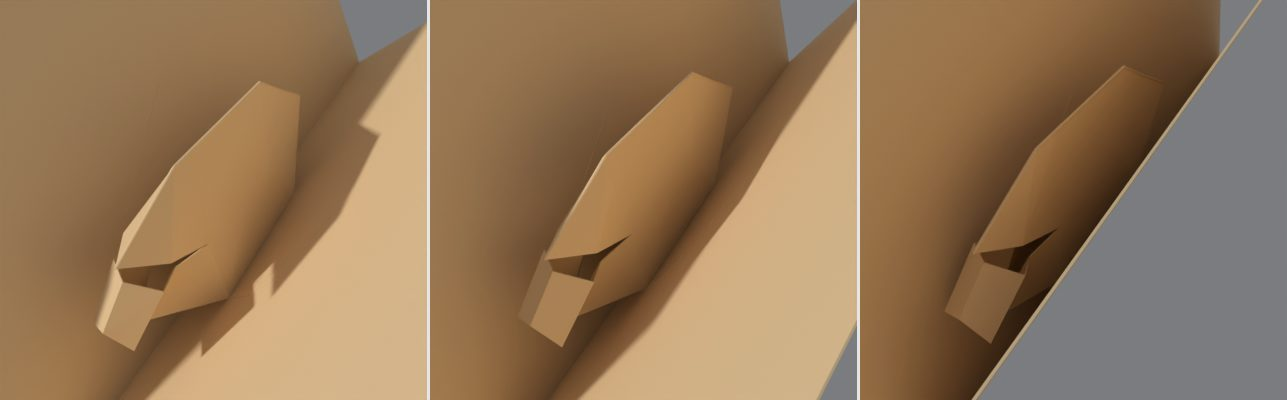
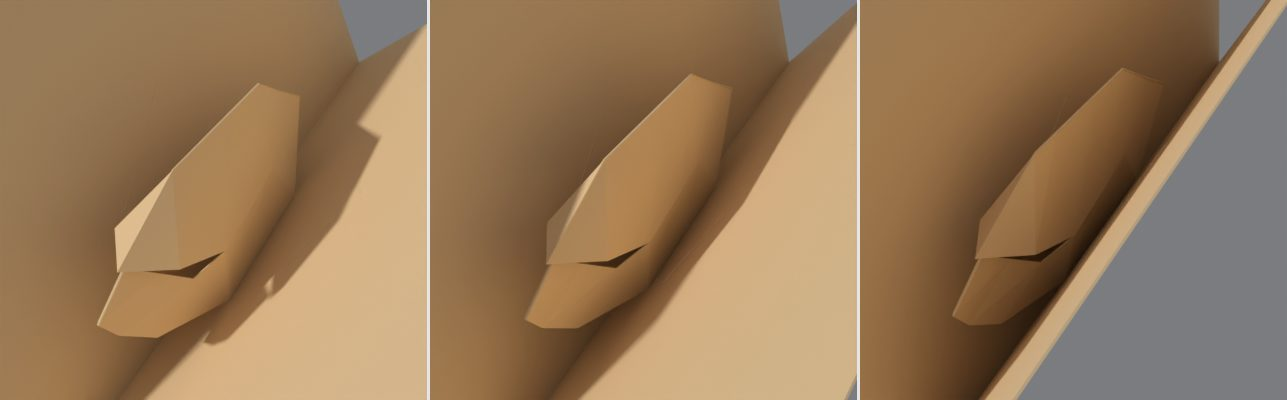
0.93.1: the animal face's creases sit the way card's do
A light spring on every crease: open flat the free shapes go a little
mountain (rest 10 deg, hinges pinned first); shut-wards each crease is held
to its open fold, let go over the last 45 deg. Replaces the jaw-only
springs. Test: no crease beyond -10 deg valley through the fold.

Claude-Session: https://claude.ai/code/session_01C9mQ3UdpPG4HfxWumnBXkE

diff --git a/popup_pro/core/koala.py b/popup_pro/core/koala.py
@@ -221,6 +221,70 @@ def edges(p, faces):
     return out
 
 
+REST = 10.0  # (degrees: a crease left to itself sits this far mountain)
+
+
+def creases(p, faces):
+    """Every crease between two facets as drawn: (a, b, c, e, side), a-b
+    the crease, c a corner of the one facet off it, e of the other, side
+    which way round the first facet goes in the pattern (+1: c left of a-b)."""
+    out = []
+    for i, fa in enumerate(faces):
+        for fb in faces[i + 1:]:
+            sh = [q for q in fa if q in fb]
+            if len(sh) != 2:
+                continue
+            a, b = sh
+            ab = p[b] - p[a]
+            la = float(np.linalg.norm(ab))
+
+            def far(f):
+                return max((q for q in f if q not in sh),
+                           key=lambda q: abs(_cross(ab, p[q] - p[a])) / la)
+
+            c, e = far(fa), far(fb)
+            out.append((a, b, c, e, 1.0 if _cross(ab, p[c] - p[a]) > 0 else -1.0))
+    return out
+
+
+def _folds(A, B, C, E_, sd, out):
+    u = B - A
+    u = u / np.maximum(np.linalg.norm(u, axis=1), 1e-12)[:, None]
+    cp = C - A
+    cp = cp - np.sum(cp * u, axis=1)[:, None] * u
+    ep = E_ - A
+    ep = ep - np.sum(ep * u, axis=1)[:, None] * u
+    lc = np.maximum(np.linalg.norm(cp, axis=1), 1e-12)
+    le = np.maximum(np.linalg.norm(ep, axis=1), 1e-12)
+    nA = (sd * out)[:, None] * np.cross(u, cp) / lc[:, None]
+    return np.arctan2(-np.sum(nA * ep, axis=1) / le, -np.sum(cp * ep, axis=1) / (lc * le))
+
+
+def fold_angles(P, idx, out=1.0):
+    """Each crease's fold (radians, + mountain: the facets falling away from
+    the card's outer face, - valley). P: corners (n x 3); idx: arrays
+    (a, b, c, e, side); out: +1 if the pattern's face up is the outer face."""
+    ia, ib, ic, ie, sd = idx
+    return _folds(P[ia], P[ib], P[ic], P[ie], sd, out)
+
+
+def fold_jac(P, idx, out=1.0, h=1e-4):
+    """The folds' rates against each of their four corners' coordinates
+    (m x 4 x 3), by central differences, each crease on its own."""
+    ia, ib, ic, ie, sd = idx
+    Q = [P[ia], P[ib], P[ic], P[ie]]
+    m = len(ia)
+    J = np.zeros((m, 4, 3))
+    for r_ in range(4):
+        for k in range(3):
+            Qp = [q.copy() for q in Q]
+            Qm = [q.copy() for q in Q]
+            Qp[r_][:, k] += h
+            Qm[r_][:, k] -= h
+            J[:, r_, k] = (_folds(*Qp, sd, out) - _folds(*Qm, sd, out)) / (2 * h)
+    return J
+
+
 def stand(p, topo, clear=0.5):
     """The face stood up open flat: x across (the left page at x < 0), y along
     the fold, z up off the card. Every facet kept its shape, the middle's
@@ -285,10 +349,51 @@ def stand(p, topo, clear=0.5):
         J.append(lam * np.eye(3 * n))
         return np.concatenate(rows), np.vstack(J)
 
+    # (each crease left free by the rest sits a little mountain, as card
+    # does: chooses among the shapes the facets alone allow)
+    cr = creases(p, topo["faces"])
+    cidx = tuple(np.array([vi[c[k]] for c in cr]) for k in range(4)) + \
+        (np.array([c[4] for c in cr]),)
+    # (the pattern's face up: outward if most facets face up in the guess)
+    out = 1.0
+    nz = 0.0
+    for f in topo["faces"]:
+        a2 = sum(_cross(p[f[i]], p[f[(i + 1) % len(f)]]) for i in range(len(f)))
+        nn = np.cross(X[vi[f[1]]] - X[vi[f[0]]], X[vi[f[2]]] - X[vi[f[0]]])
+        nz += math.copysign(1.0, a2) * nn[2] / max(np.linalg.norm(nn), 1e-12)
+    out = 1.0 if nz >= 0 else -1.0
+    rest = math.radians(REST)
+    wrest = [0.0]
+    Hpin = [None]
+
+    def resid_r(x, lam):
+        rv, J = resid(x, lam)
+        if wrest[0] <= 0.0:
+            return rv, J
+        P = x.reshape(n, 3)
+        # (the hinges kept where the facets alone put them: the springs only
+        # choose among what's left free)
+        Jh = np.zeros((3 * len(hi), 3 * n))
+        for q_, i_ in enumerate(hi):
+            for k in range(3):
+                Jh[3 * q_ + k, 3 * i_ + k] = 10.0
+        rv = np.concatenate([rv, 10.0 * (P[hi] - Hpin[0]).reshape(-1)])
+        J = np.vstack([J, Jh])
+        ph = fold_angles(P, cidx, out)
+        Jf = fold_jac(P, cidx, out)
+        Jr = np.zeros((len(ph), 3 * n))
+        for r_ in range(4):
+            for k in range(3):
+                np.add.at(Jr, (np.arange(len(ph)), 3 * cidx[r_] + k), wrest[0] * Jf[:, r_, k])
+        return np.concatenate([rv, wrest[0] * (ph - rest)]), np.vstack([J, Jr])
+
     x = X.reshape(-1)
-    for lam in (0.05, 0.01, 0.002, 0.0):
+    for lam, wr in ((0.05, 0.0), (0.01, 0.0), (0.002, 0.0), (0.0, 0.0), (0.0, 0.1), (0.0, 0.01)):
+        if wr > 0.0 and Hpin[0] is None:
+            Hpin[0] = x.reshape(n, 3)[hi].copy()
+        wrest[0] = wr
         for _ in range(60):
-            rv, J = resid(x, lam)
+            rv, J = resid_r(x, lam)
             A = J.T @ J + 1e-6 * np.eye(3 * n)
             step = np.linalg.solve(A, -(J.T @ rv))
             mx = float(np.abs(step).max())
@@ -300,4 +405,4 @@ def stand(p, topo, clear=0.5):
         X0 = x.reshape(n, 3).copy()
     P = x.reshape(n, 3)
     err = float(np.max(np.abs(np.linalg.norm(P[ea] - P[eb], axis=1) - L0)))
-    return {k: P[vi[k]].copy() for k in names}, err
+    return {k: P[vi[k]].copy() for k in names}, err, out

diff --git a/popup_pro/core/heads.py b/popup_pro/core/heads.py
@@ -87,7 +87,7 @@ class Heads:
         yN = float(m["y"])
         p_np, ear_np, topo = KO.pattern(nose, brow, muzzle, chin, mw, md, ma, jaw, cheek, es,
                                         base=base)
-        Xd, err = KO.stand(p_np, topo)
+        Xd, err, out_ = KO.stand(p_np, topo)
         if err > 0.02 * nose:
             self.warn(f"{lab}: the face can't stand up from its pattern at these landmarks "
                       f"without stretching (try others)")
@@ -179,19 +179,17 @@ class Heads:
                         d_ = (W180[c_] - W180[a_]).dot(w_)
                         hh = ((W180[c_] - W180[a_]) - (W180[c_] - W180[a_]).dot(u_) * u_).length
                         convex.append((a_, b_, c_, -1.0 if d_ < 0.0 else 1.0, 0.05 * hh))
-        # (the jaw hangs free below the mouth: held lightly to its open
-        # shape, let go towards shut, so its creases don't deepen on the way)
-        springs = []
-        jawv = {"Q", "J5", "J4", "L1", "R", "S2"}
-        for i_, fa in enumerate(topo["faces"]):
-            for fb in topo["faces"][i_ + 1:]:
-                sh = set(fa) & set(fb)
-                if len(sh) != 2 or not (jawv & set(fa) and jawv & set(fb)):
-                    continue
-                for c_ in set(fa) - sh:
-                    for e_ in set(fb) - sh:
-                        springs.append((c_, e_, (W180[c_] - W180[e_]).length,
-                                        (p2[c_] - p2[e_]).length))
+        # (every crease held lightly to its fold open flat, as creased card
+        # springs back, let go towards shut where the pages press it flat:
+        # the shapes the facets alone leave free go the way card would)
+        import numpy as np
+        crs = KO.creases(p_np, topo["faces"])
+        nmz = list(Xd)
+        vz = {k: i for i, k in enumerate(nmz)}
+        Pz = np.array([Xd[k] for k in nmz])
+        ph180 = KO.fold_angles(Pz, tuple(np.array([vz[c[k]] for c in crs]) for k in range(4)) +
+                               (np.array([c[4] for c in crs]),), out_)
+        springs = (crs, out_, ph180)
         pose_cache = {180.0: W180}
 
         def pose(t):
@@ -449,6 +447,11 @@ class Heads:
         NM = np.array(nm[:])  # (the mirror's normal, towards the left page)
         NN = np.stack([NL, NR, NM])
         sidev = np.array([v in side and v not in fixed for v in names])
+        from . import koala as KO
+        if springs:
+            crs, sout, sph = springs
+            cidx = tuple(np.array([vi[c[k]] for c in crs]) for k in range(4)) + \
+                (np.array([c[4] for c in crs]),)
 
         def resid(xx, lam):
             P = (c0f + G @ xx).reshape(nv, 3)
@@ -485,19 +488,19 @@ class Heads:
                     row[3 * ia:3 * ia + 3] -= 5.0 * sg_ * w_
                     r3.append(5.0 * g_)
                     Jc.append(row)
-            # (light springs holding a free part to its open shape, let go
-            # towards shut, where the pages press it flat)
+            # (light springs holding every crease to its fold open flat, let
+            # go towards shut, where the pages press it flat)
             sk = min(1.0, float(t) / 45.0)
-            for a_, c_, d1, d0 in springs:
-                ia, ic = vi[a_], vi[c_]
-                dv = P[ia] - P[ic]
-                ln_ = max(np.linalg.norm(dv), 1e-9)
-                wt = 0.03 * sk / np.sqrt(max(d0, 1.0))
-                row = np.zeros(3 * nv)
-                row[3 * ia:3 * ia + 3] += wt * dv / ln_
-                row[3 * ic:3 * ic + 3] -= wt * dv / ln_
-                r3.append(wt * (ln_ - d1))
-                Jc.append(row)
+            if springs and sk > 0.0:
+                ph = KO.fold_angles(P, cidx, sout)
+                Jf = KO.fold_jac(P, cidx, sout)
+                wt = 0.1 * sk
+                Jr = np.zeros((len(ph), 3 * nv))
+                for r_ in range(4):
+                    for k in range(3):
+                        np.add.at(Jr, (np.arange(len(ph)), 3 * cidx[r_] + k), wt * Jf[:, r_, k])
+                r3 += list(wt * (ph - sph))
+                Jc += list(Jr)
             r3 = np.array(r3)
             Jc = np.array(Jc).reshape(-1, 3 * nv)
             rv = np.concatenate([r1, r2, r3, lam * (xx - x0)])

diff --git a/tests/test_book_v90.py b/tests/test_book_v90.py
@@ -153,7 +153,35 @@ def ridges(M, f):
                 assert c_.dot(e_ - e_.dot(u_) * u_) < 0.0, (a_, b_, n, t)
 
 
+def folds_ok(M, f, worst=-10.0):
+    """No crease goes valley more than a few degrees on the way shut: left to
+    themselves, card's creases sit a little mountain."""
+    import numpy as np
+    pk, _, tp = KO.pattern(f.head_nose, f.head_brow, f.head_muzzle, f.head_chin, f.mouth_w,
+                           f.mouth_d, f.mouth_a, f.head_jaw, f.ear_base, f.ear_size,
+                           base=f.head_base)
+    _, _, out = KO.stand(pk, tp)
+    names = list(pk)
+    cr = KO.creases(pk, tp["faces"])
+    vi = {k: i for i, k in enumerate(names)}
+    idx = tuple(np.array([vi[c[k]] for c in cr]) for k in range(4)) + \
+        (np.array([c[4] for c in cr]),)
+    L = sorted(n for n in M.panels if n.startswith("Head1.L"))
+    for t in (150.0, 120.0, 90.0, 60.0, 40.0, 25.0, 12.0):
+        P = np.zeros((len(names), 3))
+        for k, q in pk.items():
+            for n in L:
+                P_ = M.panels[n]
+                if min((v3(c) - v3(q)).length for c in P_.polys[0]) < 0.05:
+                    P[vi[k]] = list(P_.asm(t) @ v3(q))
+                    break
+        ph = np.degrees(KO.fold_angles(P, idx, out))
+        assert ph.min() > worst, (f.head_base, t, [(c[:2], round(a)) for c, a in zip(cr, ph)
+                                                   if a <= worst])
+
+
 ridges(M, f)
+folds_ok(M, f)
 # open, it stands up; shut, it lies flat between the pages
 top = max(w.z for n in L for w in corners(n, M.tmax))
 assert top > 40.0, top
@@ -229,6 +257,8 @@ for k, v in ((None, None), ("head_muzzle", 12.0), ("mouth_a", -15.0), ("head_bro
     assert gaps(60.0) < 0.6 and gaps(12.0) < 0.6, (k, v, gaps(60.0), gaps(12.0))
     assert max(abs(w.x) for n in L for w in corners(n, 0.0)) < 1.0
     ridges(M, f)
+    if k is None:
+        folds_ok(M, f)
     if k:
         setattr(f, k, old)
 M = model()

diff --git a/docs/guide.md b/docs/guide.md
@@ -306,9 +306,11 @@ shape, the seams and C in the mirror plane and the ears' hinges on the
 card; that decides where the ears glue down. As the card closes, the ears
 ride their pages and every other corner follows, solved step by step down
 from open flat, until shut it lies pressed flat between the pages; the
-seams down the middle stay ridges all the way, never caving in, and the
-jaw (free to swing below the mouth) is held lightly to its open shape so
-its creases don't deepen on the way. The
+seams down the middle stay ridges all the way, never caving in. Each
+crease also has a light spring, as creased card does: open flat, whatever
+the facets leave free sits a little mountain; on the way shut each crease
+is held lightly to its fold open flat, let go over the last 45 degrees as
+the pages press it flat. The
 koala's quads can't all stay perfectly flat on the way (the real card gives
 a little): each is two triangles across its shorter diagonal, with no crease
 printed there, bending a hair where it must.

diff --git a/CHANGELOG.md b/CHANGELOG.md
@@ -3,6 +3,14 @@
 Newest first. `python scripts/since_upload.py` shows what has changed since the
 last upload to GitHub.
 
+* **0.93.1**: the **Animal Face**'s creases sit the way card's do. Each
+  crease now has a light spring: open flat, any shape the facets leave
+  free goes the way creased card springs back (each crease a little
+  mountain, 10°); on the way shut each crease is held lightly to its fold
+  open flat, let go over the last 45° as the pages press it flat (this
+  replaces 0.93's springs on the jaw alone). No more pronounced valley at
+  the bottom corner of the mouth on either pattern: through the whole fold
+  no crease goes more than a few degrees valley (a test checks it).
 * **0.93.0**: the **Animal Face** gets a second hand-made pattern, the
   **Goblin** (Pattern: Koala or Goblin; choosing one sets the landmarks as
   that face was made): no muzzle, a big frown turned down past the nose's

diff --git a/README.md b/README.md
@@ -261,14 +261,14 @@ Sunflower is a good way to make them.
 
 ## Version history
 
+* **0.93.1**: the animal face's creases sit the way card's do (a light
+  spring on each, a little mountain at rest): no more deep valley at the
+  bottom corner of the mouth.
 * **0.93**: a goblin pattern for the animal face beside the koala (a frown,
   no muzzle), muzzles optional on either, and the koala's jaw no longer
   folds deep partway shut.
 * **0.92.1**: the animal face's nose tip and chin stay ridges as it closes
   (they were caving in part way shut).
-* **0.92**: the animal face rebuilt on a hand-made koala's pattern, facet
-  for facet as drawn: it stands up from its pattern and crushes flat
-  cleanly all the way shut.
 
 Earlier versions are in the [changelog](CHANGELOG.md).
 
